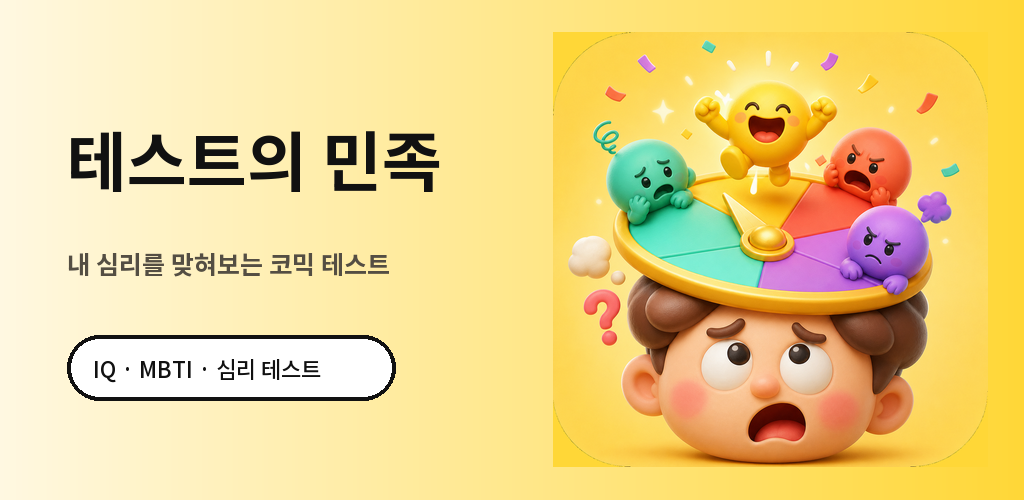
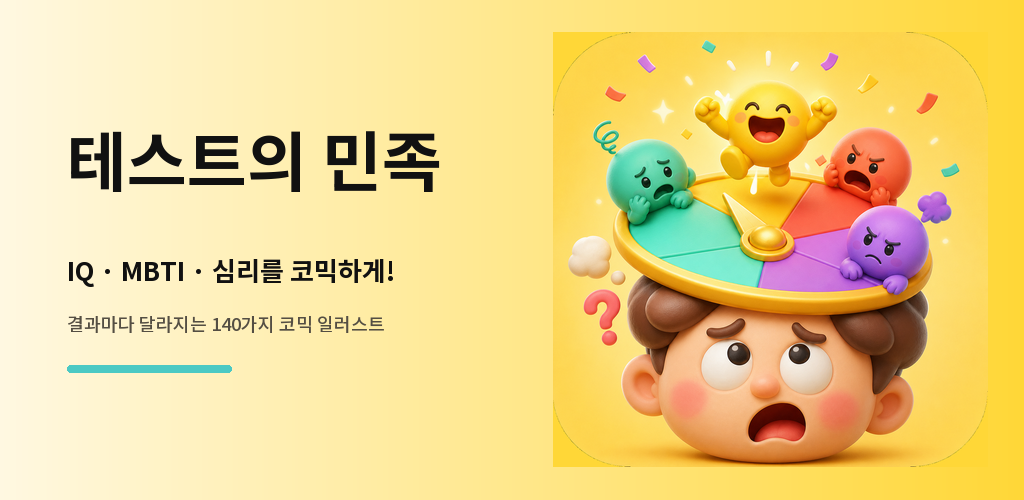
스토어 피처 그래픽과 소개 문구 개편

Changed region(s): [[0.0625, 0.63, 0.4062, 0.81], [0.0625, 0.51, 0.4062, 0.57]]

diff --git a/tools/make-icons.py b/tools/make-icons.py
@@ -89,8 +89,8 @@ def draw_marketing_canvas(icon: Image.Image, size: tuple[int, int]) -> Image.Ima
     # Play 피처 그래픽은 작은 썸네일에서도 한글 자소가 또렷해야 한다. 장식체는
     # '의'와 인접 글자가 뭉쳐 보일 수 있어 제목도 Noto Sans KR로 통일한다.
     title_font = font("assets/fonts/NotoSansKR_700Bold.ttf", round(height * 0.13))
-    subtitle_font = font("assets/fonts/NotoSansKR_700Bold.ttf", round(height * 0.050))
-    small_font = font("assets/fonts/NotoSansKR_500Medium.ttf", round(height * 0.044))
+    subtitle_font = font("assets/fonts/NotoSansKR_700Bold.ttf", round(height * 0.052))
+    detail_font = font("assets/fonts/NotoSansKR_500Medium.ttf", round(height * 0.037))
 
     icon_size = round(height * 0.87)
     icon_art = icon.resize((icon_size, icon_size), Image.Resampling.LANCZOS)
@@ -101,24 +101,26 @@ def draw_marketing_canvas(icon: Image.Image, size: tuple[int, int]) -> Image.Ima
     left = round(width * 0.065)
     draw.text((left, round(height * 0.22)), "테스트의 민족", font=title_font, fill=INK)
     draw.text(
-        (left, round(height * 0.49)),
-        "내 심리를 맞혀보는 코믹 테스트",
+        (left, round(height * 0.50)),
+        "IQ · MBTI · 심리를 코믹하게!",
         font=subtitle_font,
+        fill=INK,
+    )
+    draw.text(
+        (left, round(height * 0.62)),
+        "결과마다 달라지는 140가지 코믹 일러스트",
+        font=detail_font,
         fill=MUTED,
     )
     draw.rounded_rectangle(
-        (left, round(height * 0.67), left + round(width * 0.32), round(height * 0.80)),
-        radius=round(height * 0.065),
-        fill=(255, 255, 255),
-        outline=INK,
-        width=max(2, round(height * 0.007)),
-    )
-    draw.text(
-        (left + round(width * 0.025), round(height * 0.735)),
-        "IQ · MBTI · 심리 테스트",
-        font=small_font,
-        fill=INK,
-        anchor="lm",
+        (
+            left,
+            round(height * 0.73),
+            left + round(width * 0.16),
+            round(height * 0.745),
+        ),
+        radius=round(height * 0.008),
+        fill=(75, 201, 196),
     )
     return image
 

diff --git a/store/구글플레이-제출패키지.md b/store/구글플레이-제출패키지.md
@@ -47,63 +47,52 @@
 
 ### 간단한 설명
 
-> IQ·성격·사투리·심리 테스트를 풀고, 코믹 결과와 궁합을 한 장으로 공유하세요.
+> IQ·MBTI·심리 테스트를 풀고, 유형별 코믹 일러스트와 궁합 결과를 확인해보세요.
 
 ### 자세한 설명
 
-> 오늘도 응시하셨습니다.
+> 오늘도 응시하셨습니다!
 >
-> 테스트의 민족은 IQ, MBTI식 16유형, MZ, 사투리, 심리, 맞춤법, 순우리말,
-> 고사성어를 한곳에서 즐기는 코믹 테스트 모음입니다.
+> 나도 몰랐던 내 성격부터 은근히 헷갈리는 IQ 문제까지,
+> 테스트의 민족에서 웃기게 풀고 재미있게 확인해보세요.
 >
-> 문제를 다 풀면 점수만 툭 던지고 끝나지 않습니다. 결과마다 서로 다른 코믹
-> 일러스트와 관찰일지, 잘 맞는 유형과 조심할 유형까지 이유와 함께 보여줍니다.
+> 점수만 보여주고 끝나는 테스트가 아닙니다.
+> 결과 유형마다 다른 코믹 일러스트와 관찰일지,
+> 나와 잘 맞는 유형과 박자를 맞춰볼 유형까지 이유와 함께 보여드립니다.
 >
-> ■ 8가지 고사
+> ■ 골라 푸는 8가지 테스트
 >
-> • IQ 고사 — 도형, 수열, 유추 문제 20문항
->
-> • MBTI식 16유형 고사 — 네 가지 성격 축을 24문항으로 살펴보기
->
-> • MZ 고사 — 신조어와 밈 해독력 점검
->
+> • IQ 고사 — 도형·수열·유추 문제로 살펴보는 퍼즐 감각
+> • MBTI식 16유형 고사 — 네 가지 성격 축과 유형별 비율 확인
+> • 심리 테스트 — 연애·스트레스·대화·휴식·미루기·여행
+> • MZ 고사 — 신조어와 밈을 얼마나 자연스럽게 해독하는지 확인
 > • 사투리 고사 — 경상·전라·충청·강원·제주·서울경기 6개 지역
+> • 맞춤법 고사 — 자주 헷갈리는 표현과 올바른 이유 복습
+> • 순우리말 고사 — 사전 속 아름다운 우리말 발견
+> • 고사성어 고사 — 네 글자에 담긴 뜻과 유래 확인
 >
-> • 심리 테스트 — 연애, 스트레스, 대화, 휴식, 미루기, 여행
+> ■ 결과 화면도 하나의 콘텐츠
 >
-> • 맞춤법·순우리말·고사성어 고사 — 정답과 이유를 함께 복습
+> • 결과 유형마다 겹치지 않는 140가지 코믹 일러스트
+> • 습관과 매력, 사용 팁을 담은 재미있는 관찰일지
+> • 잘 맞는 유형과 박자를 맞춰볼 유형을 이유와 함께 소개
+> • 결과와 궁합 내용을 한 장의 이미지로 공유
 >
-> ■ 결과를 보는 재미
+> ■ 풀고 나면 기록도 차곡차곡
 >
-> • 결과 유형마다 겹치지 않는 140개의 코믹 일러스트
+> • 성적표에서 지금까지의 응시 결과 확인
+> • 틀린 문제는 오답노트에서 정답과 해설 복습
+> • 매일 바뀌는 오늘의 추천 테스트
 >
-> • 습관, 매력, 사용 팁을 담은 코믹 관찰일지
->
-> • 잘 맞는 유형과 조심할 유형을 이유와 함께 안내
->
-> • 결과와 궁합을 한 장의 이미지로 공유
->
-> ■ 풀고 나서도 남는 것
->
-> • 성적표에서 응시 기록 모아보기
->
-> • 틀린 문제는 오답노트에서 정답과 해설 확인
->
-> • 매일 바뀌는 오늘의 추천 고사
->
-> ■ 개인정보 걱정 없이
+> ■ 가볍고 편안하게
 >
 > • 회원가입 없음
->
-> • 광고 없음
->
+> • 앱 광고 없음
 > • 분석 도구 없음
->
 > • 인터넷 권한 없음
+> • 응시 기록은 사용자의 기기에만 저장
 >
-> • 기록은 사용자의 기기에만 저장
->
-> ※ 모든 테스트는 재미와 자기 관찰을 위한 자체 제작 콘텐츠입니다.
+> 모든 결과는 재미와 자기 관찰을 위한 자체 제작 콘텐츠입니다.
 > 심리·성격·IQ 결과는 임상적 진단, 공식 MBTI 검사 또는 공인 IQ 검사를
 > 대신하지 않습니다.
 

diff --git a/store/플레이스토어-등록정보.md b/store/플레이스토어-등록정보.md
@@ -18,63 +18,52 @@
 
 ## 간단한 설명
 
-> IQ·성격·사투리·심리 테스트를 풀고, 코믹 결과와 궁합을 한 장으로 공유하세요.
+> IQ·MBTI·심리 테스트를 풀고, 유형별 코믹 일러스트와 궁합 결과를 확인해보세요.
 
 ## 자세한 설명
 
-오늘도 응시하셨습니다.
+오늘도 응시하셨습니다!
 
-테스트의 민족은 IQ, MBTI식 16유형, MZ, 사투리, 심리, 맞춤법, 순우리말,
-고사성어를 한곳에서 즐기는 코믹 테스트 모음입니다.
+나도 몰랐던 내 성격부터 은근히 헷갈리는 IQ 문제까지,
+테스트의 민족에서 웃기게 풀고 재미있게 확인해보세요.
 
-문제를 다 풀면 점수만 툭 던지고 끝나지 않습니다. 결과마다 서로 다른 코믹
-일러스트와 관찰일지, 잘 맞는 유형과 조심할 유형까지 이유와 함께 보여줍니다.
+점수만 보여주고 끝나는 테스트가 아닙니다.
+결과 유형마다 다른 코믹 일러스트와 관찰일지,
+나와 잘 맞는 유형과 박자를 맞춰볼 유형까지 이유와 함께 보여드립니다.
 
-■ 8가지 고사
+■ 골라 푸는 8가지 테스트
 
-• IQ 고사 — 도형, 수열, 유추 문제 20문항
-
-• MBTI식 16유형 고사 — 네 가지 성격 축을 24문항으로 살펴보기
-
-• MZ 고사 — 신조어와 밈 해독력 점검
-
+• IQ 고사 — 도형·수열·유추 문제로 살펴보는 퍼즐 감각
+• MBTI식 16유형 고사 — 네 가지 성격 축과 유형별 비율 확인
+• 심리 테스트 — 연애·스트레스·대화·휴식·미루기·여행
+• MZ 고사 — 신조어와 밈을 얼마나 자연스럽게 해독하는지 확인
 • 사투리 고사 — 경상·전라·충청·강원·제주·서울경기 6개 지역
+• 맞춤법 고사 — 자주 헷갈리는 표현과 올바른 이유 복습
+• 순우리말 고사 — 사전 속 아름다운 우리말 발견
+• 고사성어 고사 — 네 글자에 담긴 뜻과 유래 확인
 
-• 심리 테스트 — 연애, 스트레스, 대화, 휴식, 미루기, 여행
+■ 결과 화면도 하나의 콘텐츠
 
-• 맞춤법·순우리말·고사성어 고사 — 정답과 이유를 함께 복습
+• 결과 유형마다 겹치지 않는 140가지 코믹 일러스트
+• 습관과 매력, 사용 팁을 담은 재미있는 관찰일지
+• 잘 맞는 유형과 박자를 맞춰볼 유형을 이유와 함께 소개
+• 결과와 궁합 내용을 한 장의 이미지로 공유
 
-■ 결과를 보는 재미
+■ 풀고 나면 기록도 차곡차곡
 
-• 결과 유형마다 겹치지 않는 140개의 코믹 일러스트
+• 성적표에서 지금까지의 응시 결과 확인
+• 틀린 문제는 오답노트에서 정답과 해설 복습
+• 매일 바뀌는 오늘의 추천 테스트
 
-• 습관, 매력, 사용 팁을 담은 코믹 관찰일지
-
-• 잘 맞는 유형과 조심할 유형을 이유와 함께 안내
-
-• 결과와 궁합을 한 장의 이미지로 공유
-
-■ 풀고 나서도 남는 것
-
-• 성적표에서 응시 기록 모아보기
-
-• 틀린 문제는 오답노트에서 정답과 해설 확인
-
-• 매일 바뀌는 오늘의 추천 고사
-
-■ 개인정보 걱정 없이
+■ 가볍고 편안하게
 
 • 회원가입 없음
-
-• 광고 없음
-
+• 앱 광고 없음
 • 분석 도구 없음
-
 • 인터넷 권한 없음
+• 응시 기록은 사용자의 기기에만 저장
 
-• 기록은 사용자의 기기에만 저장
-
-※ 모든 테스트는 재미와 자기 관찰을 위한 자체 제작 콘텐츠입니다.
+모든 결과는 재미와 자기 관찰을 위한 자체 제작 콘텐츠입니다.
 심리·성격·IQ 결과는 임상적 진단, 공식 MBTI 검사 또는 공인 IQ 검사를
 대신하지 않습니다.
 
